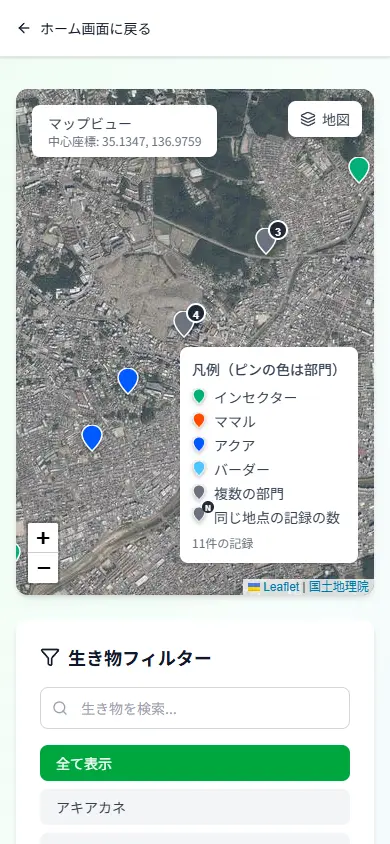
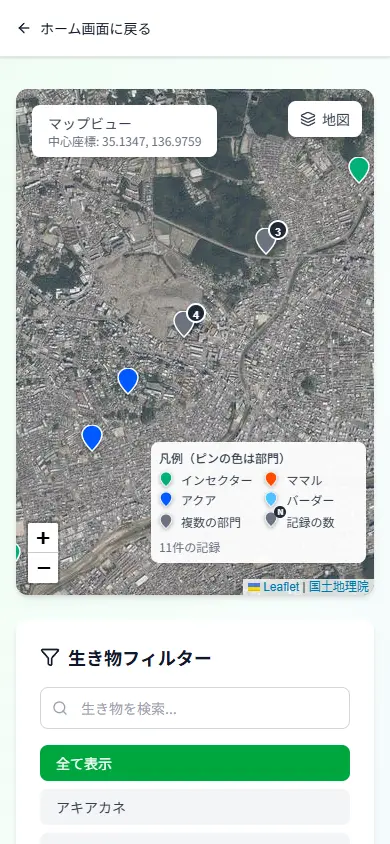
fix: 位置を選ぶピンを部門と紛れない色にし、凡例をスマホで小さくする
コードレビューの指摘に対応する。
- 位置を選ぶ地図のピンを、ママルの赤と紛れない濃い色（#1F2937）にした
- 凡例をスマホでは2列・小さい文字にし、地図を隠す範囲を減らした
- 登録済みユーザーの絞り込みを filterUsers に切り出してテストし、
  listed を useMemo にした

Refs #109

Changed region(s): [[0.3692, 0.4005, 0.9538, 0.6777]]

diff --git a/apps/web/src/pages/AdminPage.tsx b/apps/web/src/pages/AdminPage.tsx
@@ -324,6 +324,12 @@ function InvitationPanel({ invitations, onChanged }: { invitations: AdminInvitat
 // ユーザー
 // ---------------------------------------------------------------------------
 
+/** 登録済みユーザーを、メールアドレスか名前で絞り込む（#109）。検索語が空なら全員 */
+export function filterUsers(users: AdminUser[], query: string): AdminUser[] {
+  const match = searchMatcher(query);
+  return match ? users.filter((u) => match(u.email ?? '') || match(u.name)) : users;
+}
+
 function UserPanel({ users, onChanged }: { users: AdminUser[]; onChanged: () => Promise<void> }) {
   const me = useCurrentUser()!;
   const [error, setError] = useState<string | null>(null);
@@ -365,14 +371,11 @@ function UserPanel({ users, onChanged }: { users: AdminUser[]; onChanged: () => 
     void run(u, () => changeRole(u.id, role));
   };
 
-  const listed = users.filter((u) => u.status !== 'withdrawn');
+  const listed = useMemo(() => users.filter((u) => u.status !== 'withdrawn'), [users]);
   const withdrawn = users.filter((u) => u.status === 'withdrawn');
   // メールアドレス（と名前）で絞り込む（#109）。人が多くても、無効化・退会処理・役割の変更の相手を探せるようにする
   const [query, setQuery] = useState('');
-  const shownUsers = useMemo(() => {
-    const match = searchMatcher(query);
-    return match ? listed.filter((u) => match(u.email ?? '') || match(u.name)) : listed;
-  }, [listed, query]);
+  const shownUsers = useMemo(() => filterUsers(listed, query), [listed, query]);
 
   return (
     <Card className="p-6">

diff --git a/apps/web/src/pages/AdminPage.test.ts b/apps/web/src/pages/AdminPage.test.ts
@@ -1,0 +1,30 @@
+import type { AdminUser } from '@yamon/shared';
+import { describe, expect, it } from 'vitest';
+import { filterUsers } from './AdminPage';
+
+const user = (id: string, name: string, email: string | null): AdminUser =>
+  ({ id, name, email, role: 'member', status: 'active', protected: false, createdAt: '2026-11-12T00:00:00Z' }) as AdminUser;
+
+const users = [
+  user('u1', '山田 太郎', 'yamada@example.com'),
+  user('u2', '佐藤 花子', 'Sato.Hanako@Example.com'),
+  user('u3', '退会済みユーザー', null),
+];
+
+describe('登録済みユーザーの絞り込み（#109）', () => {
+  it('検索語が空なら全員', () => {
+    expect(filterUsers(users, '').map((u) => u.id)).toEqual(['u1', 'u2', 'u3']);
+    expect(filterUsers(users, '  ').map((u) => u.id)).toEqual(['u1', 'u2', 'u3']);
+  });
+
+  it('メールアドレスの一部で絞り込む（大文字小文字・全角半角は区別しない）', () => {
+    expect(filterUsers(users, 'yamada').map((u) => u.id)).toEqual(['u1']);
+    expect(filterUsers(users, 'sato.hanako').map((u) => u.id)).toEqual(['u2']);
+    expect(filterUsers(users, 'ＳＡＴＯ').map((u) => u.id)).toEqual(['u2']);
+  });
+
+  it('名前でも探せる。メールアドレスがない人（退会済み）でも落ちない', () => {
+    expect(filterUsers(users, '花子').map((u) => u.id)).toEqual(['u2']);
+    expect(filterUsers(users, 'example.com').map((u) => u.id)).toEqual(['u1', 'u2']);
+  });
+});

diff --git a/apps/web/src/pages/MapPage.tsx b/apps/web/src/pages/MapPage.tsx
@@ -167,9 +167,10 @@ export function MapPage() {
           </div>
 
           {/* 凡例：ピンの色は部門ごと（#109） */}
-          <div className="pointer-events-none absolute right-4 bottom-8 z-[1000] rounded-lg bg-white p-3 shadow-md">
-            <p className="mb-2 text-sm font-medium text-gray-700">凡例（ピンの色は部門）</p>
-            <ul className="space-y-1 text-sm text-gray-700">
+          <div className="pointer-events-none absolute right-2 bottom-8 z-[1000] rounded-lg bg-white/95 p-2 shadow-md sm:right-4 sm:p-3">
+            <p className="mb-1.5 text-xs font-medium text-gray-700 sm:mb-2 sm:text-sm">凡例（ピンの色は部門）</p>
+            {/* スマホでは2列にして、地図を隠す高さを減らす */}
+            <ul className="grid grid-cols-2 gap-x-3 gap-y-1 text-xs text-gray-700 sm:grid-cols-1 sm:text-sm">
               {LEGEND_CATEGORIES.map((c) => (
                 <li key={c} className="flex items-center gap-2">
                   <LegendPin color={CATEGORY_PIN_COLORS[c]} />
@@ -187,7 +188,7 @@ export function MapPage() {
                     N
                   </span>
                 </span>
-                同じ地点の記録の数
+                記録の数
               </li>
             </ul>
             <p className="mt-2 text-xs text-gray-500">{filtered.length}件の記録</p>

diff --git a/apps/web/src/components/mapPins.ts b/apps/web/src/components/mapPins.ts
@@ -15,6 +15,9 @@ export const CATEGORY_PIN_COLORS: Record<Category, string> = {
   ママル: '#FF4B00',
 };
 
+/** 記録の位置を選ぶ地図のピンの色（部門と関係ないので、どの部門の色とも違う濃い色、#109） */
+export const PICK_PIN_COLOR = '#1F2937';
+
 /** 同じ地点に、複数の部門の記録があるときの色（どの部門の色とも紛れない灰色） */
 export const MIXED_PIN_COLOR = '#6B7280';
 
@@ -35,7 +38,7 @@ export function pinSvg(color: string, size = 24): string {
 }
 
 /** マップのピン。color で色を決める（部門の色、#109）。count が 2 以上なら件数のバッジを付ける */
-export function pinIcon(count = 1, color = '#fb2c36'): L.DivIcon {
+export function pinIcon(count = 1, color = PICK_PIN_COLOR): L.DivIcon {
   const badge =
     count > 1
       ? `<span style="position:absolute;top:-8px;right:-10px;min-width:20px;height:20px;padding:0 4px;border-radius:9999px;background:#1f2937;color:#fff;font-size:11px;font-weight:700;line-height:20px;text-align:center;border:2px solid #fff;box-sizing:border-box">${count}</span>`

diff --git a/apps/web/src/components/MapPickerModal.tsx b/apps/web/src/components/MapPickerModal.tsx
@@ -1,7 +1,7 @@
 import { useState } from 'react';
 import { Marker, useMapEvents } from 'react-leaflet';
 import { MAP_CENTER, isInSurveyArea } from '@yamon/shared';
-import { pinIcon } from './mapPins';
+import { PICK_PIN_COLOR, pinIcon } from './mapPins';
 import { SurveyMap } from './SurveyMap';
 import { Modal } from './ui';
 
@@ -81,7 +81,7 @@ export function MapPickerModal({
             if (inside) setPicked({ lat, lng });
           }}
         />
-        {picked && <Marker position={picked} icon={pinIcon()} />}
+        {picked && <Marker position={picked} icon={pinIcon(1, PICK_PIN_COLOR)} />}
       </SurveyMap>
     </Modal>
   );
